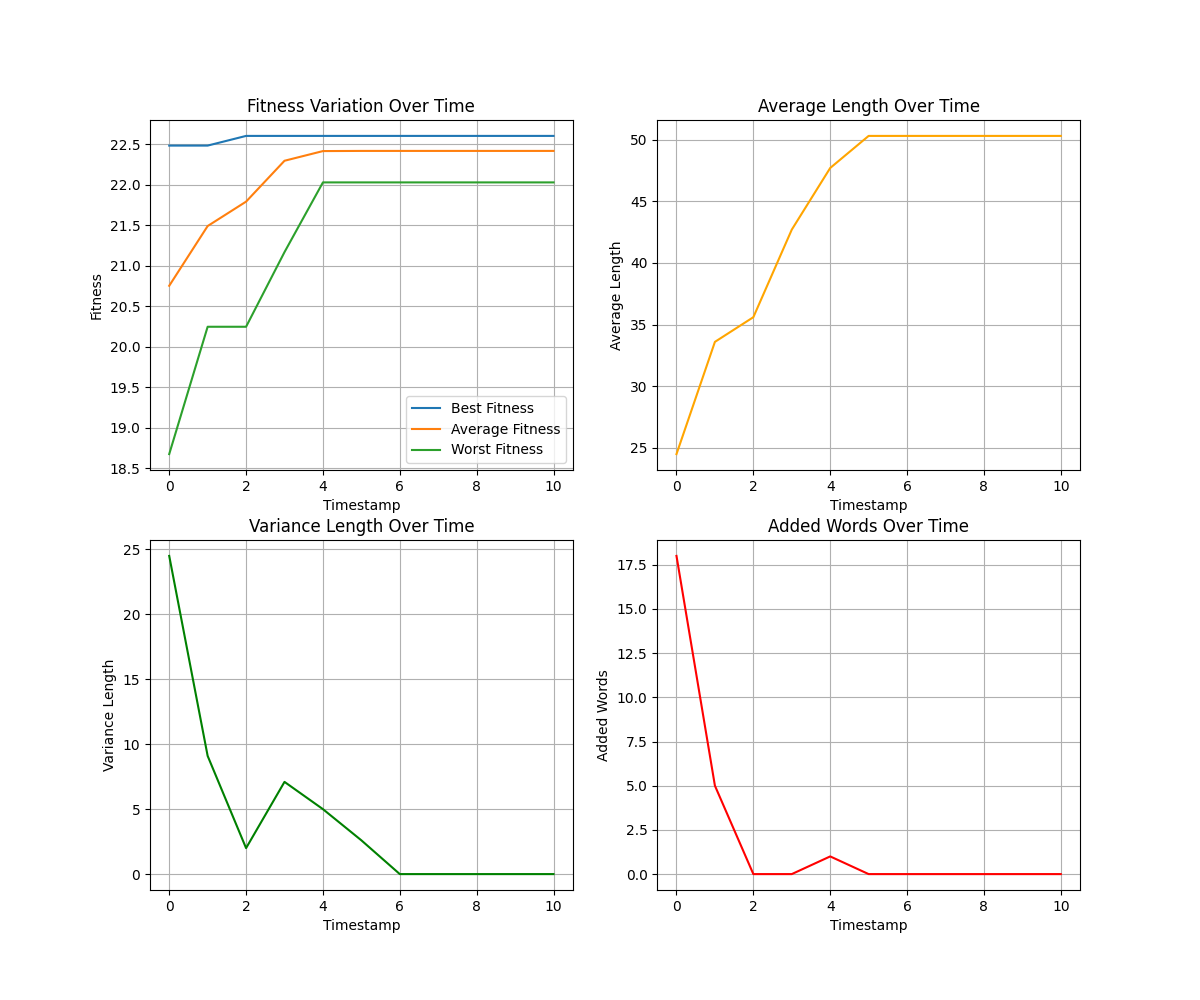
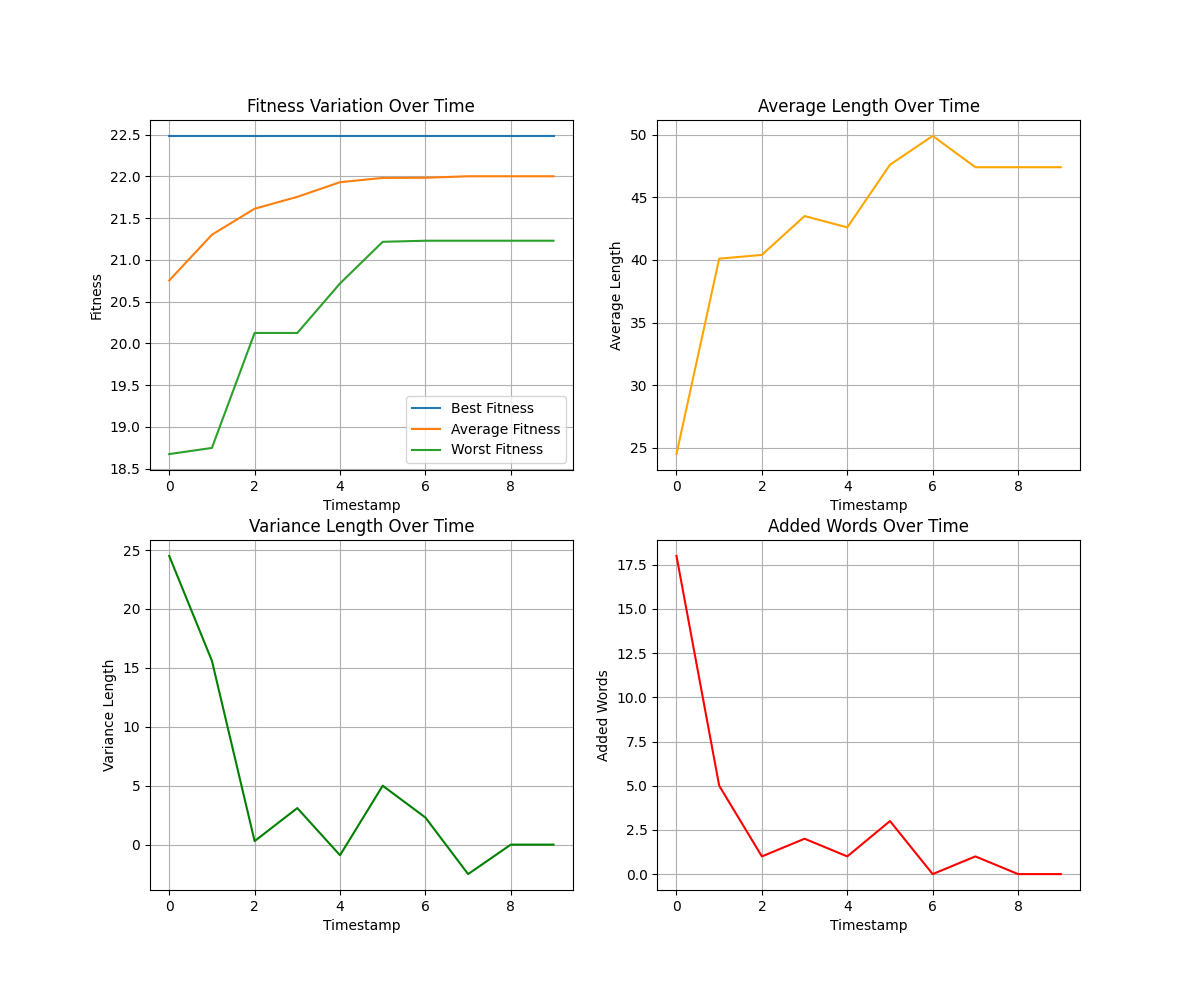
updated resuilts

diff --git a/diff_evo_runs.py b/diff_evo_runs.py
@@ -3,8 +3,22 @@ import re
 
 # Define parameter combinations
 configs = [
+    "-g 10 -p 10 -d",
+    "-g 10 -p 20",
+    "-g 10 -p 20 -d",
+    "-g 10 -p 50",
     "-g 10 -p 50 -d",
-    "-g 10 -p 100 -d"
+    "-g 10 -p 100",
+    "-g 10 -p 100 -d",
+    
+    "-g 10 -p 10 -f",
+    "-g 10 -p 10 -f -d",
+    "-g 10 -p 20 -f",
+    "-g 10 -p 20 -f -d",
+    "-g 10 -p 50 -f",
+    "-g 10 -p 50 -f -d",
+    "-g 10 -p 100 -f",
+    "-g 10 -p 100 -f -d"
 ]
 
 
